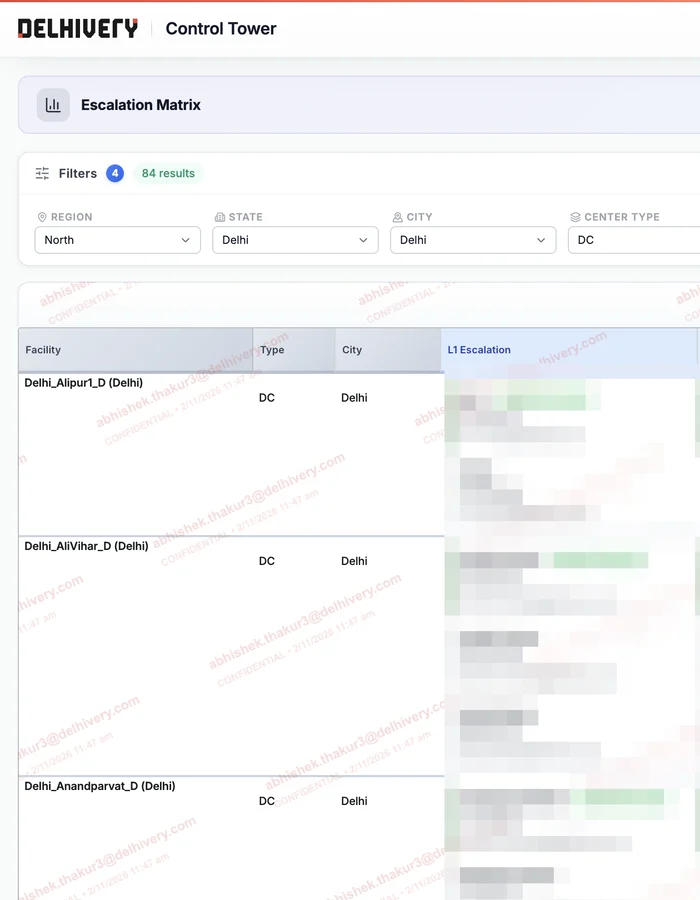
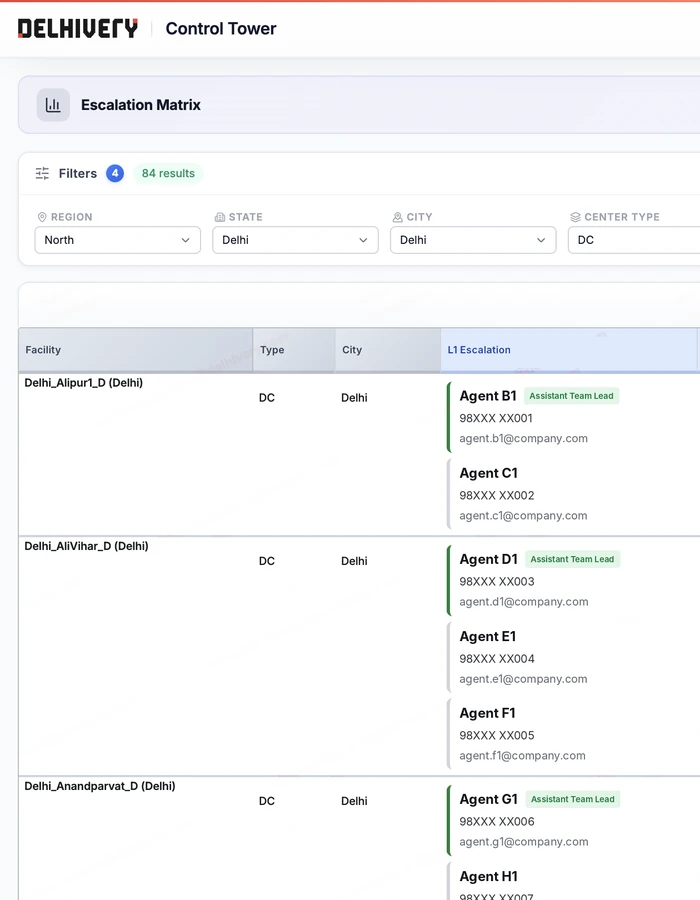
Jarvis deck: sharp Escalation Matrix with dummy contacts in place of the blur
Claude-Session: https://claude.ai/code/session_01Hk7si3owCVDs4cH4zgK8o7

diff --git a/js/jarvis-deck-slides.js b/js/jarvis-deck-slides.js
@@ -72,7 +72,7 @@ window.DECK = {
         decide: { img: "jarvis-old-tdp.webp", full: "jarvis-old-tdp-full.webp", k: "Ticket detail (TDP)", d: "88 days overdue, no SLA, shipment or owner in view." },
         validate: [
           { img: "context/hq-tracking-thumb.webp", full: "context/hq-tracking.webp", k: "HQ", d: "Where's the shipment?" },
-          { img: "context/escalation-matrix-thumb.webp", full: "context/escalation-matrix.webp", k: "Escalation Matrix", d: "Who do I escalate to?" }
+          { img: "context/escalation-matrix-thumb.webp?v=2", full: "context/escalation-matrix.webp?v=2", k: "Escalation Matrix", d: "Who do I escalate to?" }
         ],
         line: "One ticket. Three tools. No single place to act."
       },

diff --git a/jarvis-deck.html b/jarvis-deck.html
@@ -59,7 +59,7 @@
       </aside>
     </div>
 
-    <script src="js/jarvis-deck-slides.js?v=72"></script>
+    <script src="js/jarvis-deck-slides.js?v=73"></script>
     <script src="js/jarvis-proto.js?v=4"></script>
     <script src="js/jarvis-northstar.js?v=17"></script>
     <script src="js/jiomart-deck.js?v=130"></script>
